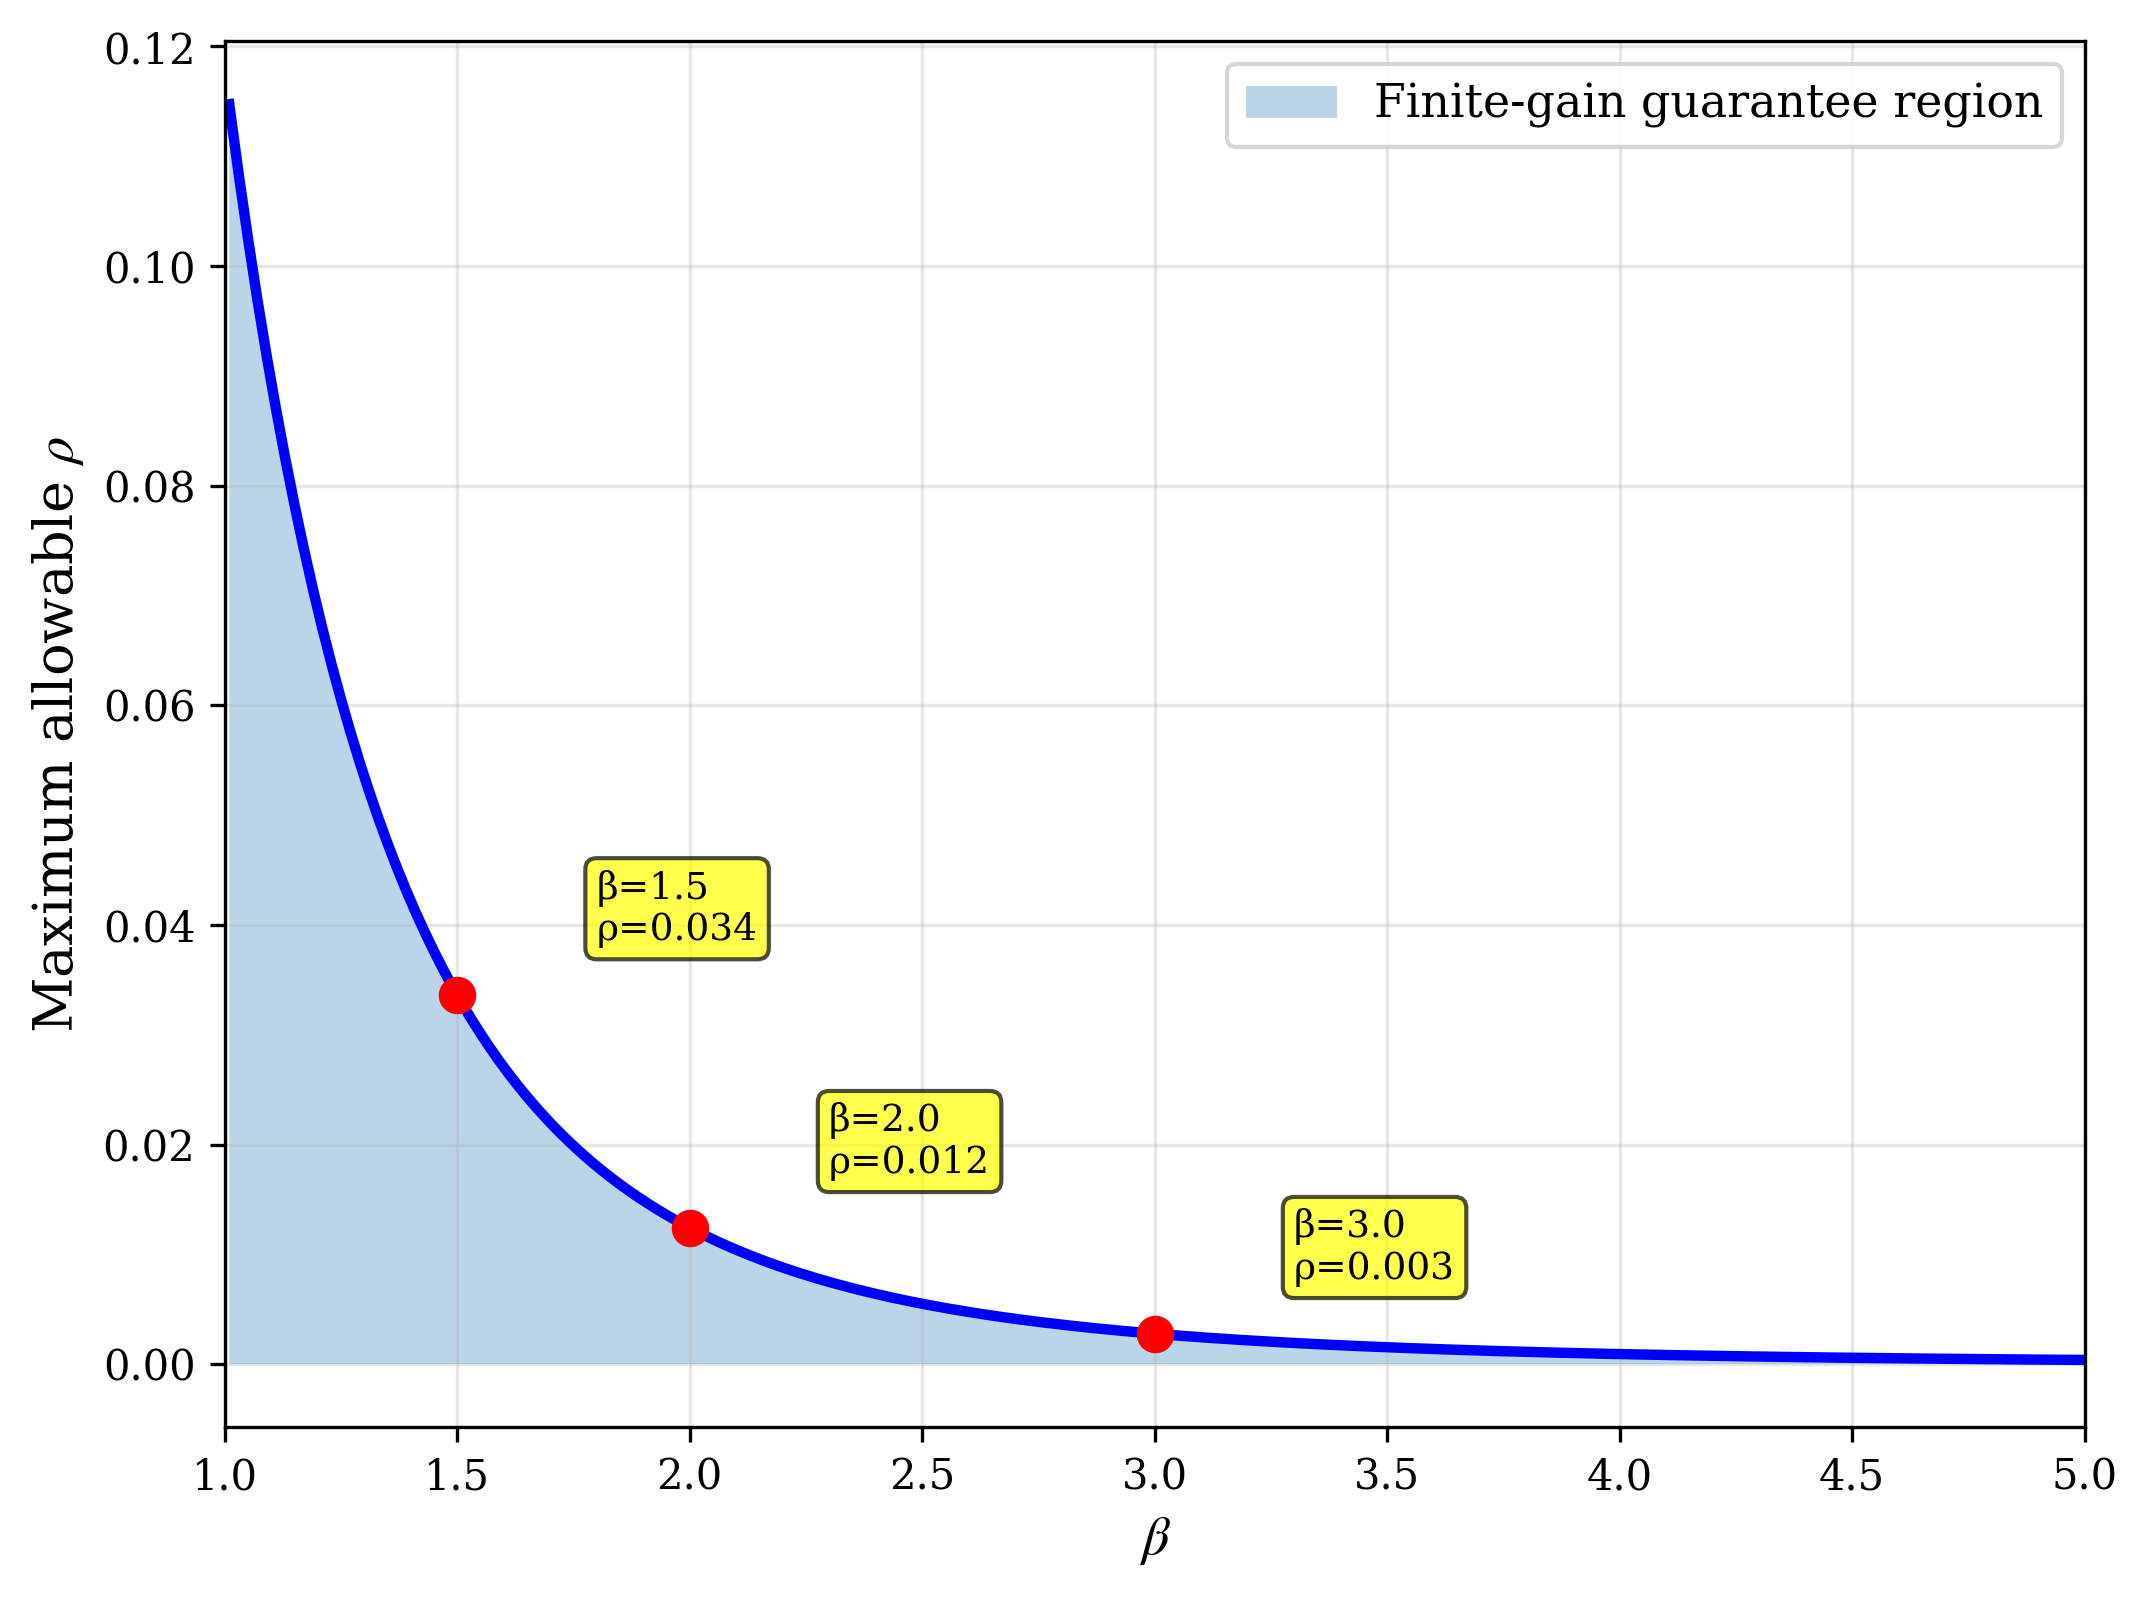
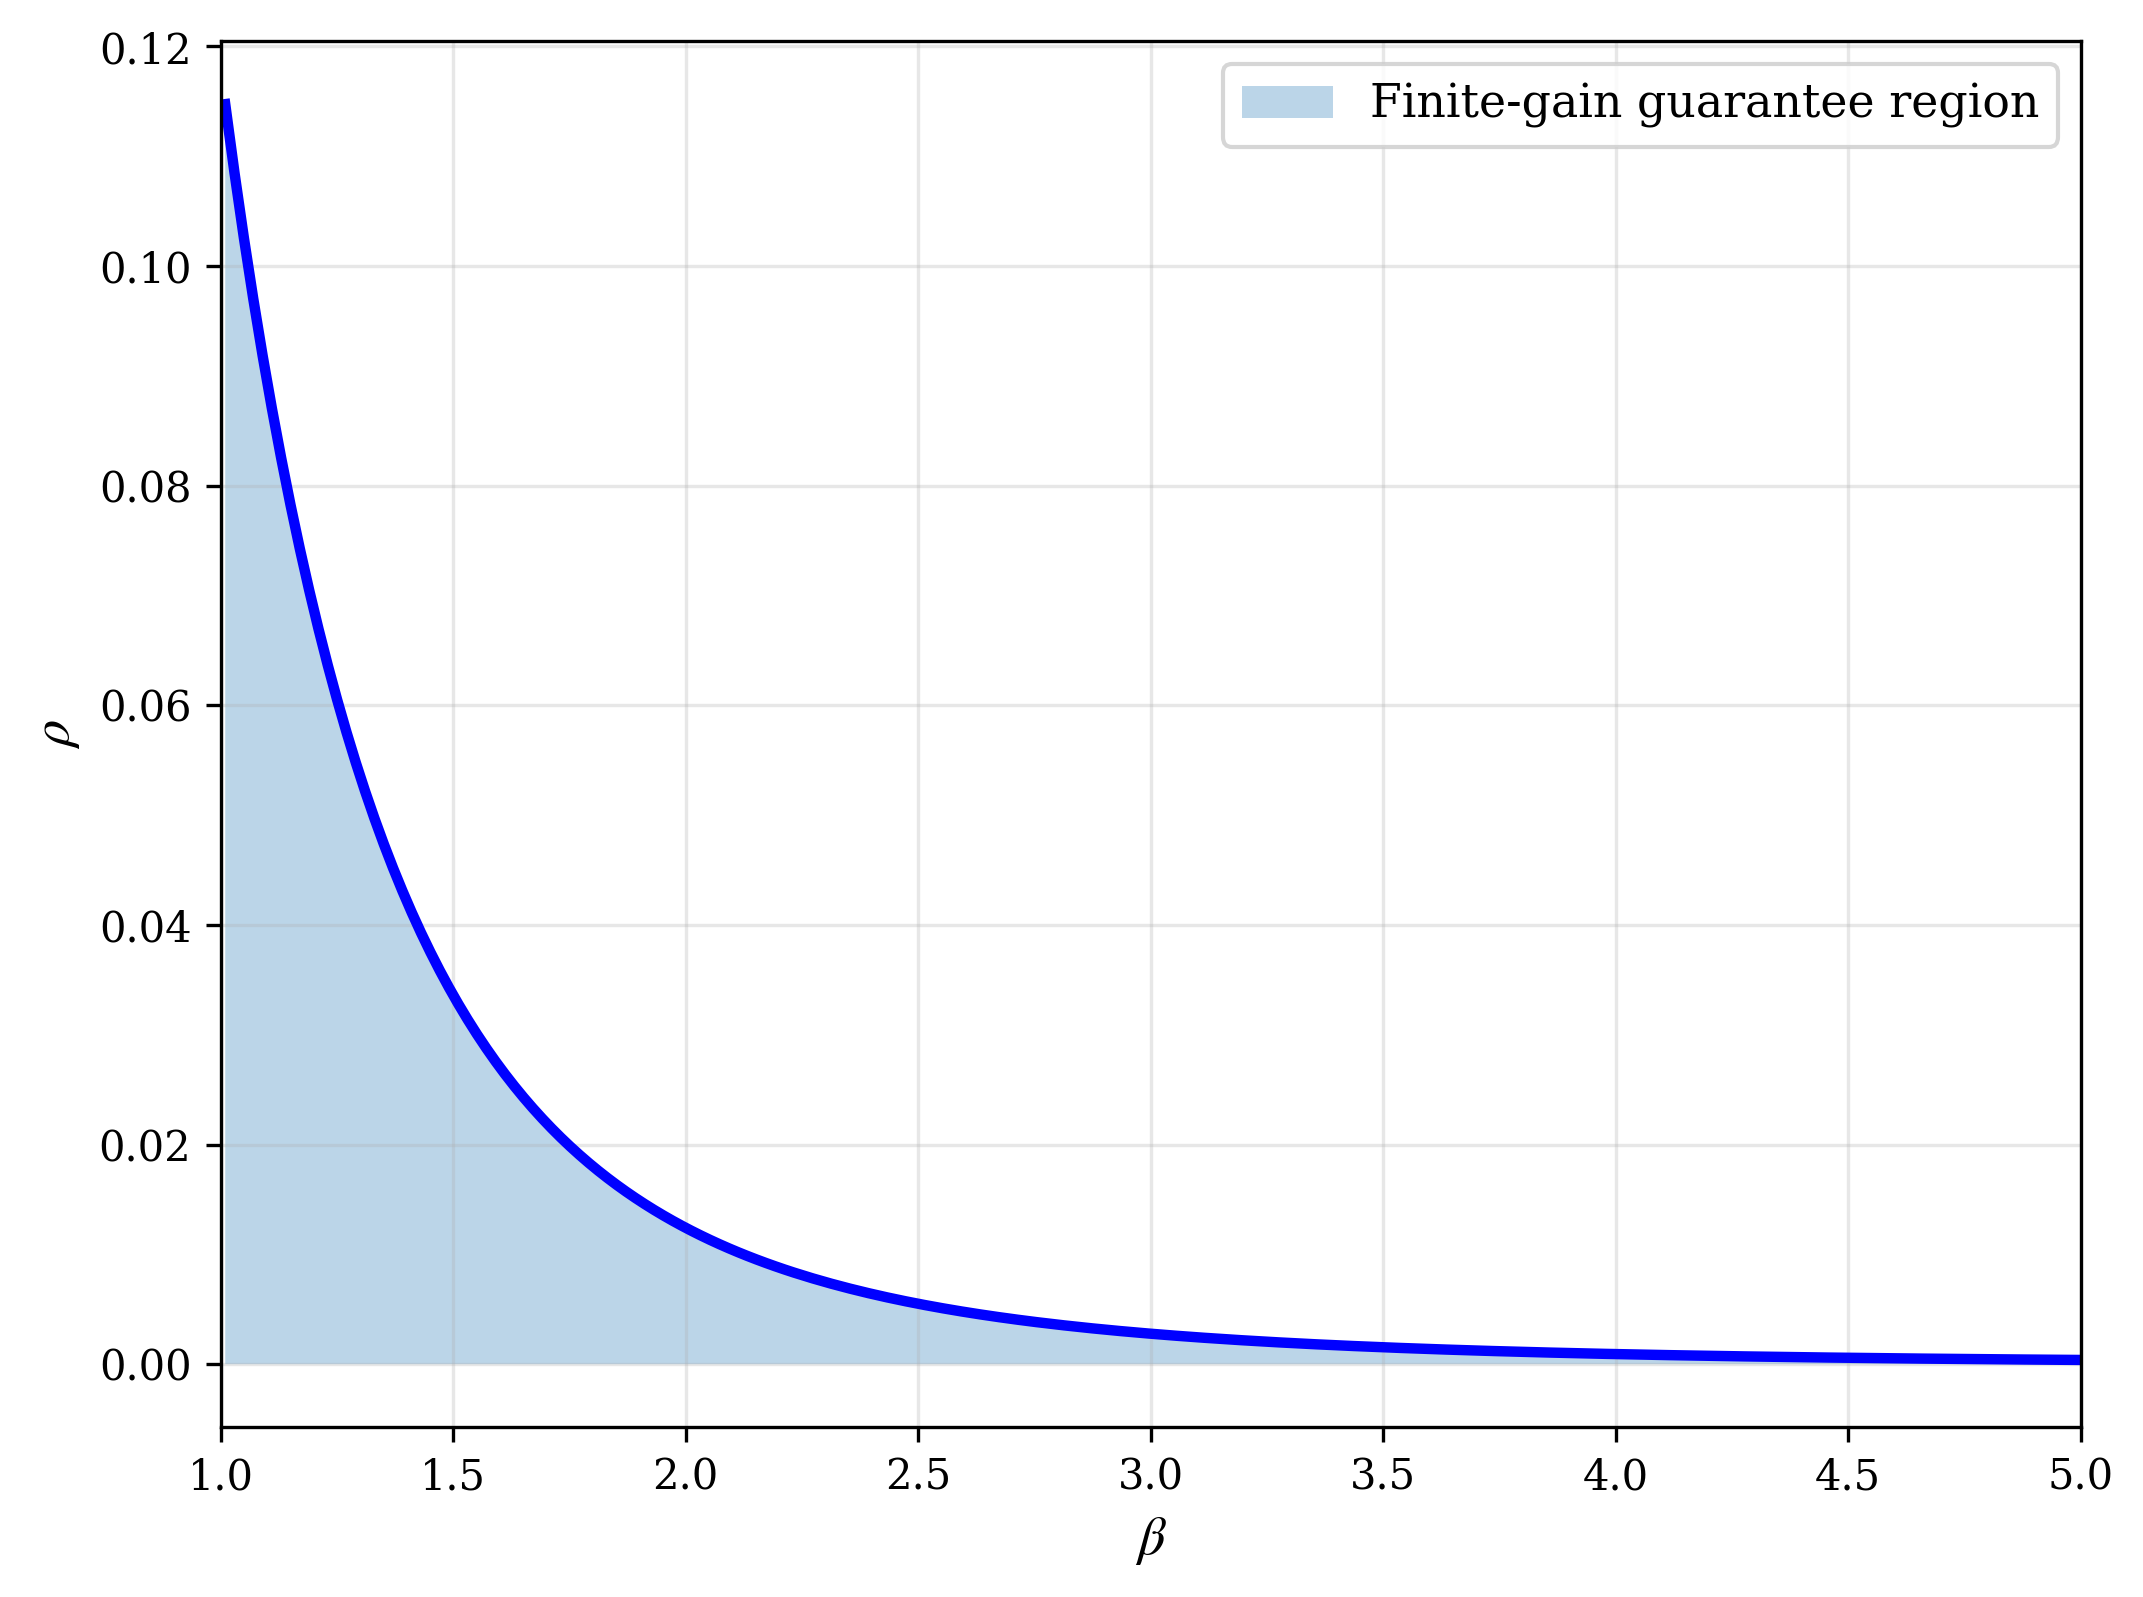
update

diff --git a/theretical_analysis.py b/theretical_analysis.py
@@ -1,6 +1,13 @@
 import numpy as np
 import matplotlib.pyplot as plt
 
+try:
+    import tikzplotlib
+    TIKZ_AVAILABLE = True
+except ImportError:
+    TIKZ_AVAILABLE = False
+    print("Warning: tikzplotlib not available, TikZ output will be skipped")
+
 plt.rcParams['font.family'] = 'serif'
 plt.rcParams['font.serif'] = ['Times New Roman', 'DejaVu Serif', 'Liberation Serif', 'Times', 'serif']
 plt.rcParams['mathtext.fontset'] = 'stix'
@@ -27,22 +34,27 @@ def create_panel_1():
     ax.plot(beta_vals, max_rho_vals, 'b-', linewidth=2.5)
     ax.fill_between(beta_vals, 0, max_rho_vals, alpha=0.3, label='Finite-gain guarantee region')
     ax.set_xlabel(r'$\beta$', fontsize=13)
-    ax.set_ylabel(r'Maximum allowable $\rho$', fontsize=13)
+    ax.set_ylabel(r'$\rho$', fontsize=13)
     # ax.set_title(r'Stability boundary: $\rho_{\max}(\beta)$', fontsize=13, fontweight='bold')
     ax.grid(True, alpha=0.3)
     ax.legend(fontsize=11)
     ax.set_xlim([1, 5])
 
     # Add annotations
-    for beta_mark in [1.5, 2.0, 3.0]:
-        rho_max = compute_max_rho(beta_mark)
-        ax.plot(beta_mark, rho_max, 'ro', markersize=8)
-        ax.annotate(f'β={beta_mark}\nρ={rho_max:.3f}',
-                    xy=(beta_mark, rho_max), xytext=(beta_mark+0.3, rho_max+0.005),
-                    fontsize=9, bbox=dict(boxstyle='round,pad=0.3', facecolor='yellow', alpha=0.7))
+    # for beta_mark in [1.5, 2.0, 3.0]:
+    #     rho_max = compute_max_rho(beta_mark)
+        # ax.plot(beta_mark, rho_max, 'ro', markersize=8)
+        # ax.annotate(f'β={beta_mark}\nρ={rho_max:.3f}',
+        #             xy=(beta_mark, rho_max), xytext=(beta_mark+0.3, rho_max+0.005),
+        #             fontsize=9, bbox=dict(boxstyle='round,pad=0.3', facecolor='yellow', alpha=0.7))
 
     plt.savefig('plots/analysis/panel_1_max_rho_vs_beta.png', dpi=300, bbox_inches='tight')
     print("Panel 1 saved: panel_1_max_rho_vs_beta.png")
+
+    # Save TikZ version
+    if TIKZ_AVAILABLE:
+        tikzplotlib.save('plots/tikz/panel_1_max_rho_vs_beta.tex')
+        print("Panel 1 TikZ saved: panel_1_max_rho_vs_beta.tex")
     plt.close()
 
 def create_panel_2():
@@ -76,12 +88,22 @@ def create_panel_2():
 
     plt.savefig('plots/analysis/panel_2_delta_contour.png', dpi=300, bbox_inches='tight')
     print("Panel 2 saved: panel_2_delta_contour.png")
+
+    # Save TikZ version
+    if TIKZ_AVAILABLE:
+        tikzplotlib.save('plots/tikz/panel_2_delta_contour.tex')
+        print("Panel 2 TikZ saved: panel_2_delta_contour.tex")
     plt.close()
 
 if __name__ == "__main__":
     print("Creating theoretical analysis plots...")
+    if not TIKZ_AVAILABLE:
+        print("\n⚠  tikzplotlib not available (matplotlib version conflict)")
+        print("    For TikZ plots, run: python3 create_tikz_plots.py\n")
 
     create_panel_1()
     create_panel_2()
 
     print("\n✓ Analysis complete!")
+    if not TIKZ_AVAILABLE:
+        print("\n💡 Tip: TikZ plots can be generated with: python3 create_tikz_plots.py")
